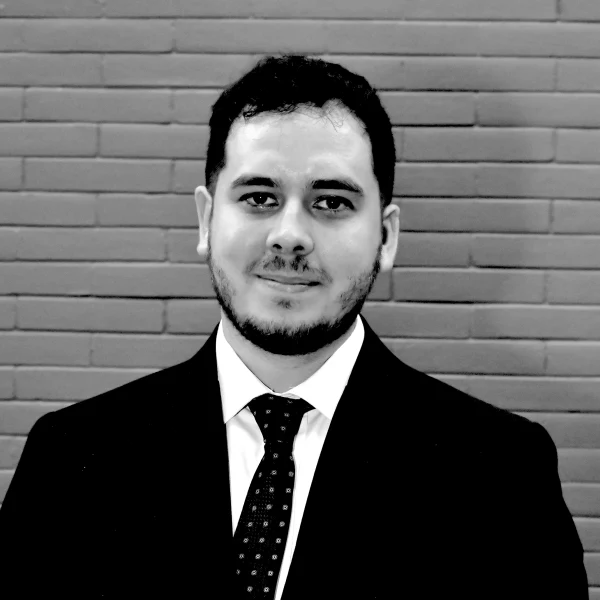
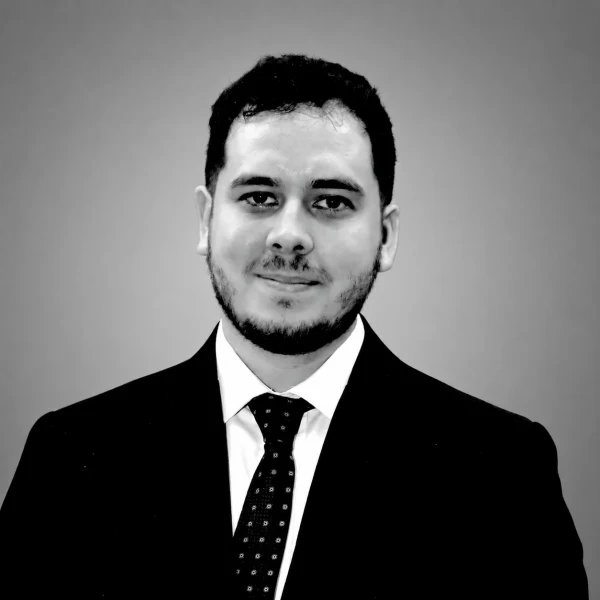
Refresh Federico home profile image

diff --git a/backoffice/src/lib/app-version.ts b/backoffice/src/lib/app-version.ts
@@ -1,1 +1,1 @@
-export const BACKOFFICE_VERSION = "2.397";
+export const BACKOFFICE_VERSION = "2.398";
